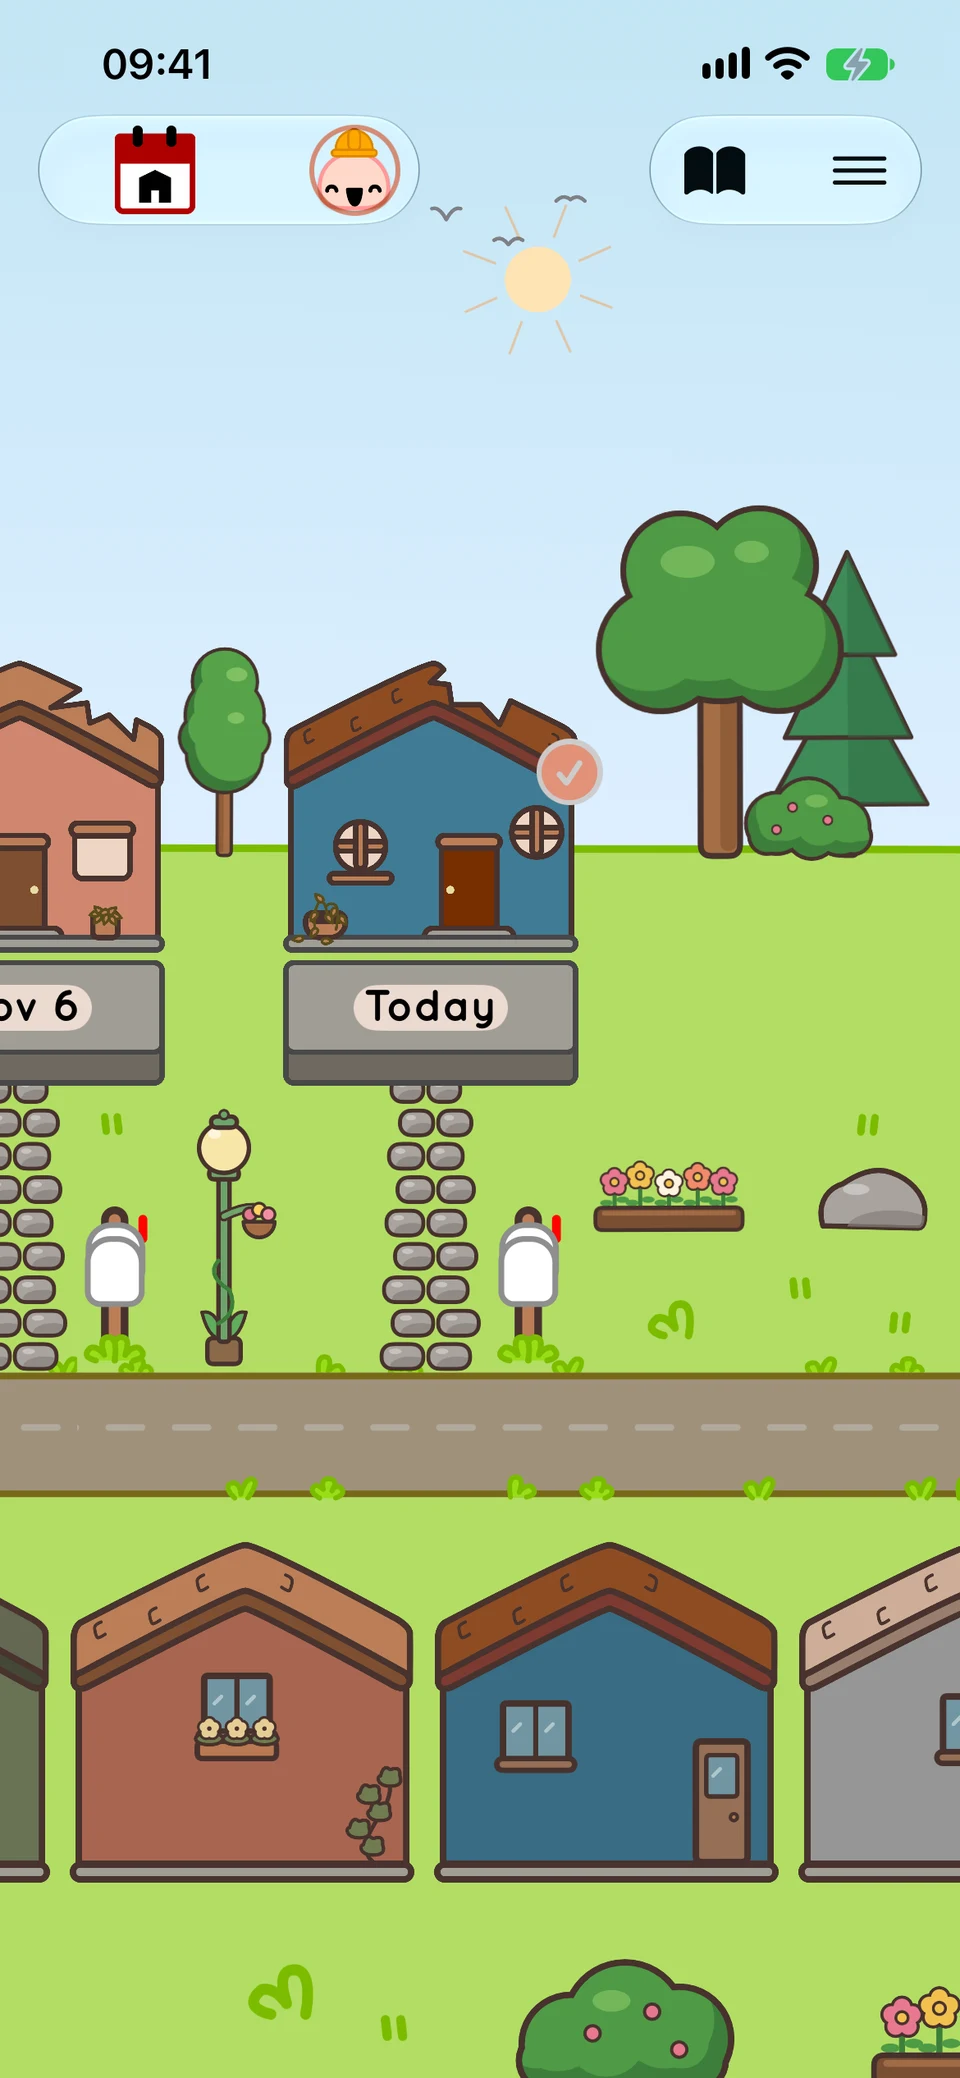
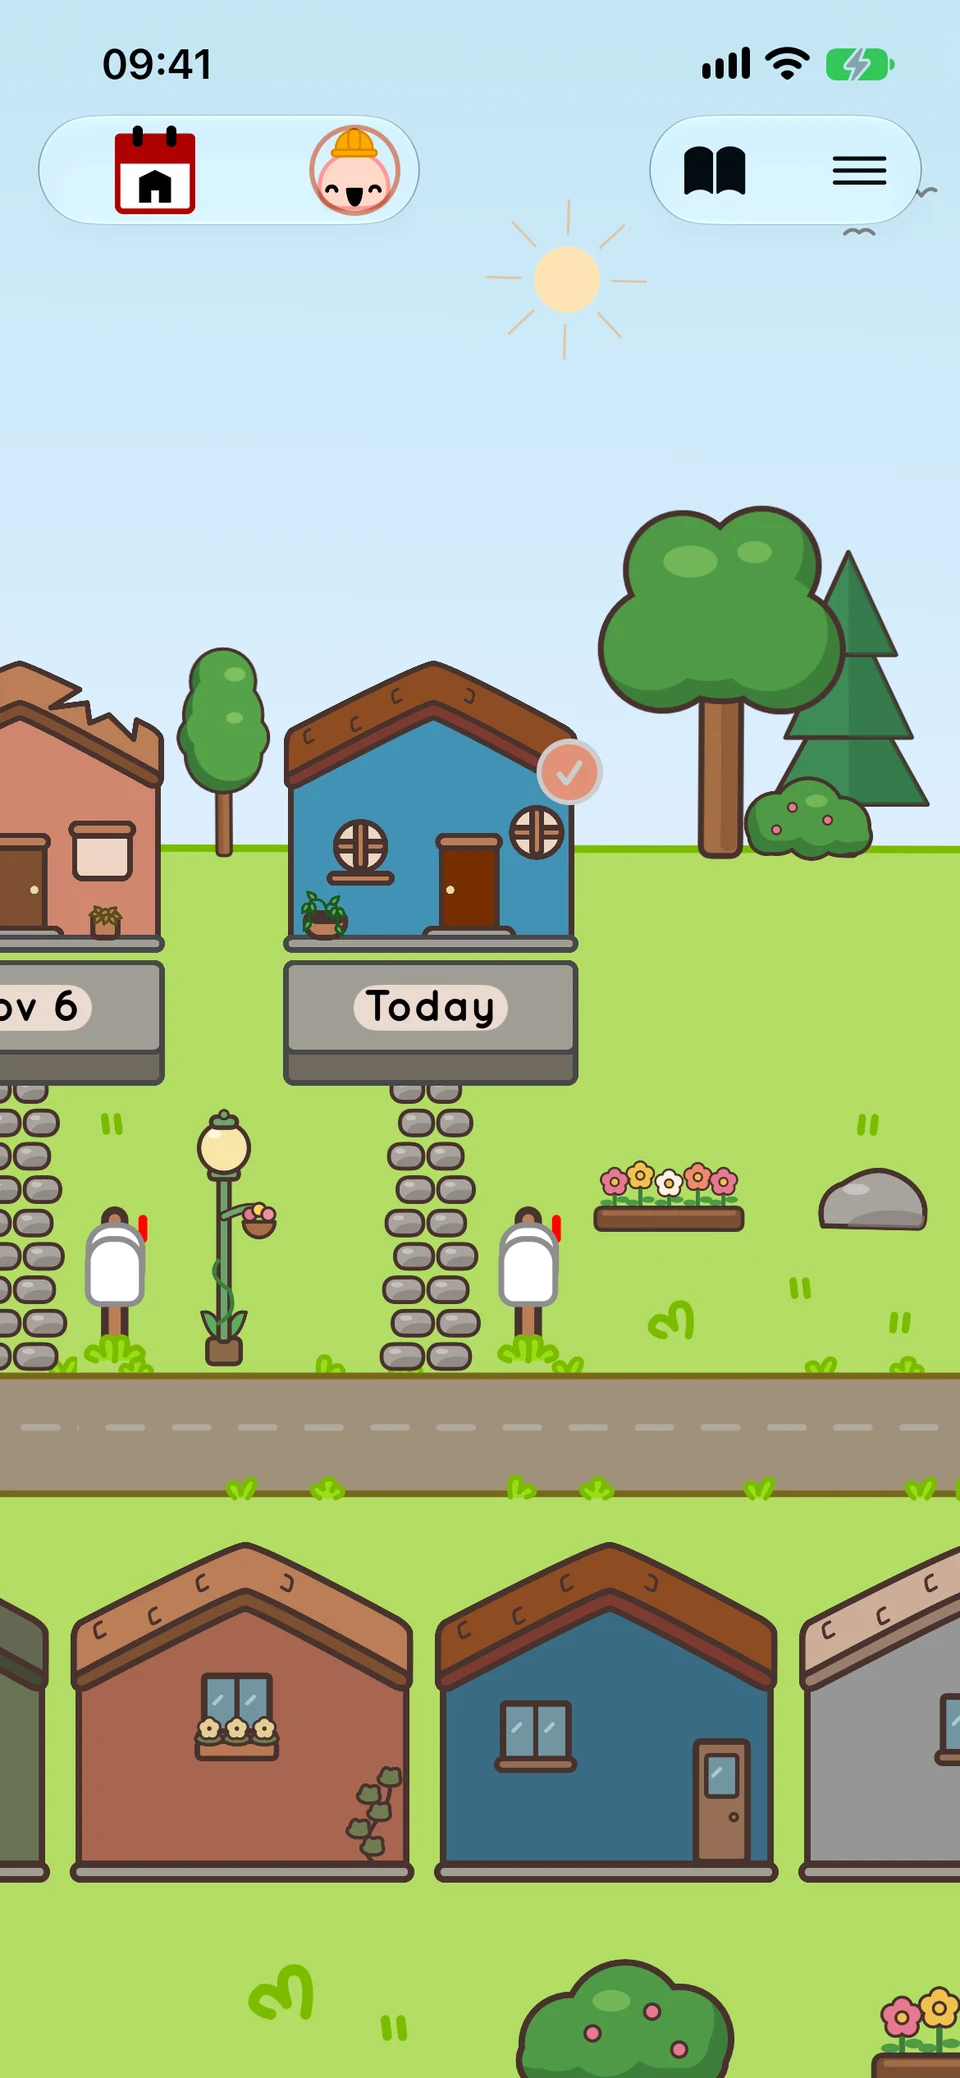
Use a Home capture with an intact roof on Today's house

diff --git a/ASSETS.md b/ASSETS.md
@@ -16,11 +16,11 @@ The original 1170 × 2532 PNGs remain in the app's preserved evidence. The websi
 
 ### Daytime captures, November 7, 2026
 
-`neighborhood-day*.webp` and `calendar-current*.webp` are resized copies of screenshots taken from the running app on **November 7, 2026** at about 3 PM Eastern, so the neighborhood scene shows its daytime sky. Source: `weskcode/NeuroNook` at `799d41f4d4206e0fdadf59230193beb090f1264a` (`feature/cloud-batch-20261106-b2`, one commit past `develop`), a Debug simulator build. Device: iPhone 17e, iOS 27.2, English, light appearance, default text size, status bar fixed at 9:41. The app was launched with `--uitesting --uitesting-screenshots -themeMode light -selectedAvatar Face-VeryHappy -selectedAvatarOverlay Hat-HardHatYellow`. That seeds the in-memory mock journal and shows the hard-hat avatar on the profile button at the top left, and nothing was written to the app's stored settings. No app controls, text, scores, or device frames were drawn or replaced. The seeded entries are synthetic and the mock data fills every day of the month, including days after the capture date.
+`neighborhood-day*.webp` and `calendar-current*.webp` are resized copies of screenshots taken from the running app on **November 7, 2026** at about 3 PM Eastern, so the neighborhood scene shows its daytime sky. Source: `weskcode/NeuroNook` at `799d41f4d4206e0fdadf59230193beb090f1264a` (`feature/cloud-batch-20261106-b2`, one commit past `develop`), a Debug simulator build. Device: iPhone 17e, iOS 27.2, English, light appearance, default text size, status bar fixed at 9:41. The app was launched with `--uitesting --uitesting-screenshots -themeMode light -selectedAvatar Face-VeryHappy -selectedAvatarOverlay Hat-HardHatYellow`. That seeds the in-memory mock journal and shows the hard-hat avatar on the profile button at the top left, and nothing was written to the app's stored settings. No app controls, text, scores, or device frames were drawn or replaced. The seeded entries are synthetic and the mock data fills every day of the month, including days after the capture date. The mock journal draws random scores on every launch, so the Home capture is from a launch whose Today entry scored 8 out of 10, which draws the complete house with an intact roof; the other houses in it are random.
 
 | Website asset | Capture | SHA-256 of original PNG |
 | --- | --- | --- |
[3 lines of base64/hex data omitted]
 
 The 1170 × 2532 originals are kept outside this repository, in `~/.codex/task-artifacts/neuronook-homepage-20261107/capture/`. They were resized the same way as the October set. The homepage still uses `day-detail*.webp` from October 28, whose neighborhood header shows the night sky, so the page shows both. `neighborhood*.webp`, `calendar*.webp` and `social.png` are the October captures and no longer appear in the homepage markup (`social.png` is still the social preview image).
